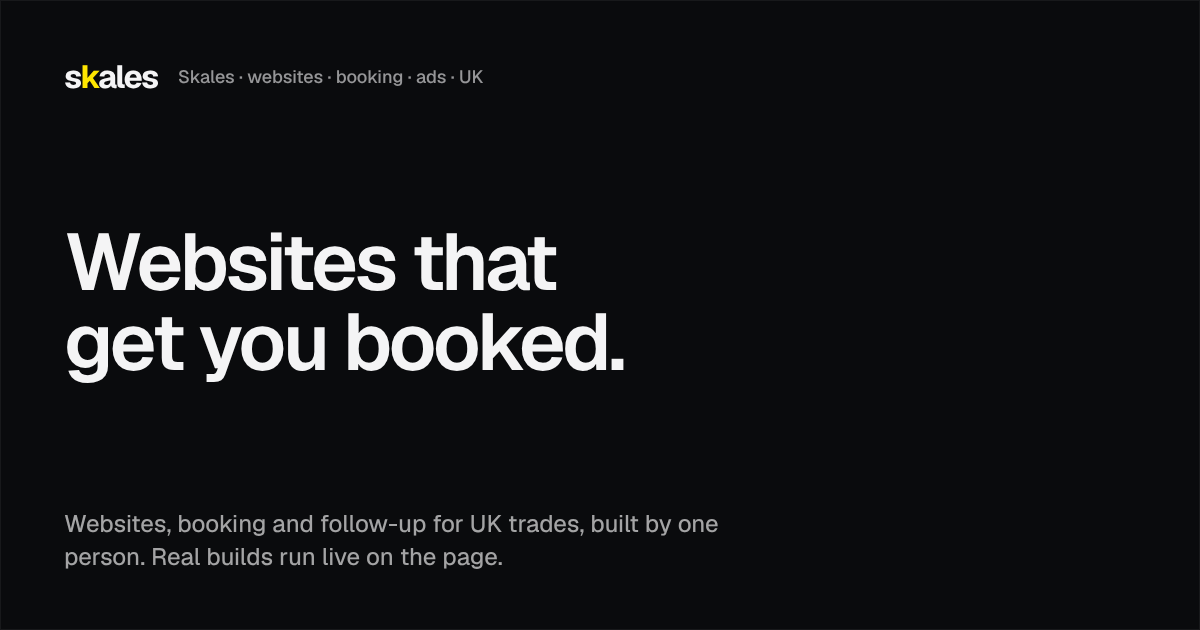
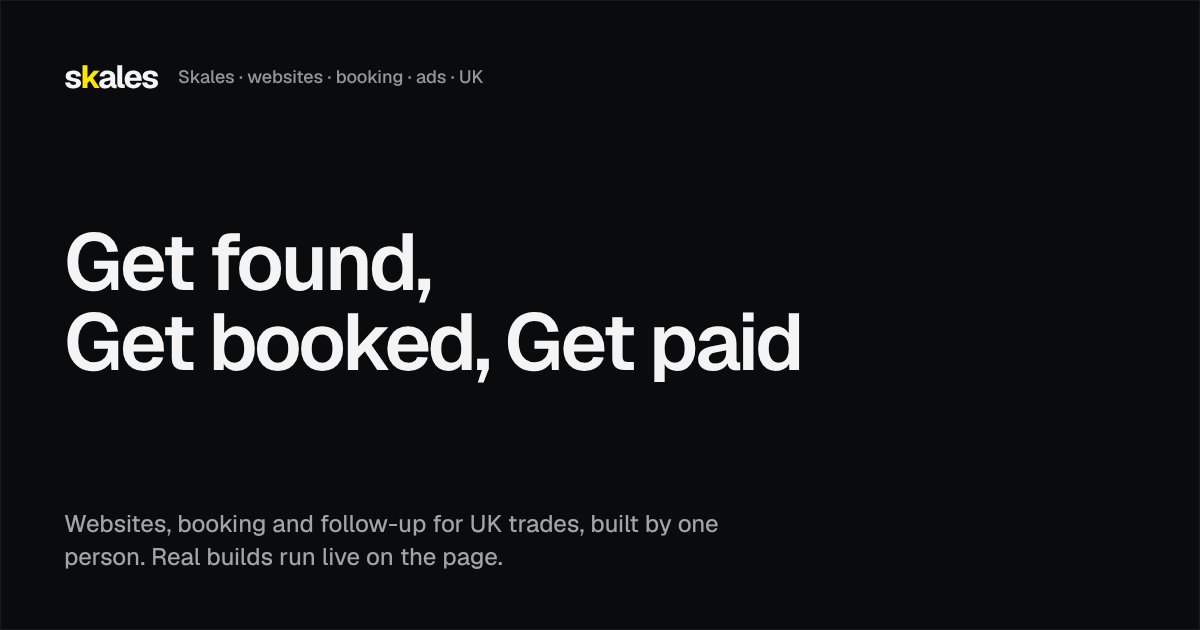
Home headline: Get found, Get booked, Get paid
Tom's words, one phrase a line on the home hero; the home share card says the same.

Claude-Session: https://claude.ai/code/session_013oWbUP7KUN4JVZuAp1amwS

Changed region(s): [[0.0308, 0.3619, 0.6783, 0.6032]]

diff --git a/index.html b/index.html
@@ -31,7 +31,7 @@
 <link rel="preload" href="assets/fonts/geist-latin.woff2" as="font" type="font/woff2" crossorigin>
 <link rel="stylesheet" href="assets/site.css?v=7762e17f">
 <link rel="stylesheet" href="assets/home.css?v=f5cb20c9">
-<script type="application/ld+json">{"@context":"https://schema.org","@graph":[{"@type":"Organization","@id":"https://skales.studio/#organization","name":"Skales Studio","alternateName":"Skales","legalName":"Skales Studio","url":"https://skales.studio/","description":"Websites & systems for service businesses. Builds websites, online booking and follow-up automation for UK service businesses (trades and local operators).","founder":{"@id":"https://skales.studio/#founder"},"foundingDate":"2026","areaServed":{"@type":"Country","name":"United Kingdom"},"knowsAbout":["Web design for service businesses","Online booking systems","CRM for trades","Missed-call text-back automation","Customer follow-up automation","Trades websites","Review request automation","Facebook and Instagram advertising","Google Ads","Local SEO"],"sameAs":["https://www.instagram.com/tomxsystems/"],"contactPoint":{"@type":"ContactPoint","contactType":"sales","email":"thomasrgriffiths08@gmail.com","availableLanguage":"en-GB","areaServed":"GB"},"logo":{"@type":"ImageObject","url":"https://skales.studio/og/icon.png","width":512,"height":512},"image":"https://skales.studio/og/home.png","hasOfferCatalog":{"@type":"OfferCatalog","name":"Skales Studio services","itemListElement":[{"@type":"Offer","itemOffered":{"@type":"Service","@id":"https://skales.studio/services/websites/#service","name":"Websites","url":"https://skales.studio/services/websites/"}},{"@type":"Offer","itemOffered":{"@type":"Service","@id":"https://skales.studio/services/booking-and-crm/#service","name":"Booking and CRM","url":"https://skales.studio/services/booking-and-crm/"}},{"@type":"Offer","itemOffered":{"@type":"Service","@id":"https://skales.studio/services/follow-up-automation/#service","name":"Follow-up automation","url":"https://skales.studio/services/follow-up-automation/"}},{"@type":"Offer","itemOffered":{"@type":"Service","@id":"https://skales.studio/services/meta-ads/#service","name":"Meta ads","url":"https://skales.studio/services/meta-ads/"}},{"@type":"Offer","itemOffered":{"@type":"Service","@id":"https://skales.studio/services/google-ads/#service","name":"Google ads","url":"https://skales.studio/services/google-ads/"}}]}},{"@type":"Person","@id":"https://skales.studio/#founder","name":"Tom Griffiths","alternateName":"Thomas Griffiths","jobTitle":"Founder & builder","worksFor":{"@id":"https://skales.studio/#organization"},"url":"https://skales.studio/why/","sameAs":["https://www.instagram.com/tomxsystems/"],"nationality":"GB","description":"Builds the websites, booking systems and follow-up automation at Skales, by hand, for UK service businesses.","knowsAbout":["Web design","Online booking systems","CRM for service businesses","Missed-call text-back","Follow-up automation","Facebook and Instagram ads","Google Ads","Local SEO"]},{"@type":"WebSite","@id":"https://skales.studio/#website","url":"https://skales.studio/","name":"Skales Studio","alternateName":"Skales","description":"Websites & systems for service businesses","publisher":{"@id":"https://skales.studio/#organization"},"inLanguage":"en-GB"},{"@type":"WebPage","@id":"https://skales.studio/#webpage","url":"https://skales.studio/","name":"Websites & booking systems for UK trades | Skales Studio","description":"Websites, online booking, missed-call text-back and ads for UK trades, built by one person. See twelve real builds and try a live demo on your phone.","isPartOf":{"@id":"https://skales.studio/#website"},"about":{"@id":"https://skales.studio/#organization"},"inLanguage":"en-GB","dateModified":"2026-11-15","primaryImageOfPage":{"@type":"ImageObject","url":"https://skales.studio/og/home.png"}},{"@type":"ItemList","name":"Example websites","itemListElement":[{"@type":"ListItem","position":1,"url":"https://skales.studio/work/kerb-and-camber/","name":"Kerb & Camber"},{"@type":"ListItem","position":2,"url":"https://skales.studio/work/kestrel-electrical/","name":"Kestrel Electrical"},{"@type":"ListItem","position":3,"url":"https://skales.studio/work/fern-physio/","name":"Fern Physio"},{"@type":"ListItem","position":4,"url":"https://skales.studio/work/southpaw/","name":"Southpaw"},{"@type":"ListItem","position":5,"url":"https://skales.studio/work/marrow-and-pin/","name":"Marrow & Pin"},{"@type":"ListItem","position":6,"url":"https://skales.studio/work/long-exposure/","name":"Long Exposure"}]}]}</script>
+<script type="application/ld+json">{"@context":"https://schema.org","@graph":[{"@type":"Organization","@id":"https://skales.studio/#organization","name":"Skales Studio","alternateName":"Skales","legalName":"Skales Studio","url":"https://skales.studio/","description":"Websites & systems for service businesses. Builds websites, online booking and follow-up automation for UK service businesses (trades and local operators).","founder":{"@id":"https://skales.studio/#founder"},"foundingDate":"2026","areaServed":{"@type":"Country","name":"United Kingdom"},"knowsAbout":["Web design for service businesses","Online booking systems","CRM for trades","Missed-call text-back automation","Customer follow-up automation","Trades websites","Review request automation","Facebook and Instagram advertising","Google Ads","Local SEO"],"sameAs":["https://www.instagram.com/tomxsystems/"],"contactPoint":{"@type":"ContactPoint","contactType":"sales","email":"thomasrgriffiths08@gmail.com","availableLanguage":"en-GB","areaServed":"GB"},"logo":{"@type":"ImageObject","url":"https://skales.studio/og/icon.png","width":512,"height":512},"image":"https://skales.studio/og/home.png","hasOfferCatalog":{"@type":"OfferCatalog","name":"Skales Studio services","itemListElement":[{"@type":"Offer","itemOffered":{"@type":"Service","@id":"https://skales.studio/services/websites/#service","name":"Websites","url":"https://skales.studio/services/websites/"}},{"@type":"Offer","itemOffered":{"@type":"Service","@id":"https://skales.studio/services/booking-and-crm/#service","name":"Booking and CRM","url":"https://skales.studio/services/booking-and-crm/"}},{"@type":"Offer","itemOffered":{"@type":"Service","@id":"https://skales.studio/services/follow-up-automation/#service","name":"Follow-up automation","url":"https://skales.studio/services/follow-up-automation/"}},{"@type":"Offer","itemOffered":{"@type":"Service","@id":"https://skales.studio/services/meta-ads/#service","name":"Meta ads","url":"https://skales.studio/services/meta-ads/"}},{"@type":"Offer","itemOffered":{"@type":"Service","@id":"https://skales.studio/services/google-ads/#service","name":"Google ads","url":"https://skales.studio/services/google-ads/"}}]}},{"@type":"Person","@id":"https://skales.studio/#founder","name":"Tom Griffiths","alternateName":"Thomas Griffiths","jobTitle":"Founder & builder","worksFor":{"@id":"https://skales.studio/#organization"},"url":"https://skales.studio/why/","sameAs":["https://www.instagram.com/tomxsystems/"],"nationality":"GB","description":"Builds the websites, booking systems and follow-up automation at Skales, by hand, for UK service businesses.","knowsAbout":["Web design","Online booking systems","CRM for service businesses","Missed-call text-back","Follow-up automation","Facebook and Instagram ads","Google Ads","Local SEO"]},{"@type":"WebSite","@id":"https://skales.studio/#website","url":"https://skales.studio/","name":"Skales Studio","alternateName":"Skales","description":"Websites & systems for service businesses","publisher":{"@id":"https://skales.studio/#organization"},"inLanguage":"en-GB"},{"@type":"WebPage","@id":"https://skales.studio/#webpage","url":"https://skales.studio/","name":"Websites & booking systems for UK trades | Skales Studio","description":"Websites, online booking, missed-call text-back and ads for UK trades, built by one person. See twelve real builds and try a live demo on your phone.","isPartOf":{"@id":"https://skales.studio/#website"},"about":{"@id":"https://skales.studio/#organization"},"inLanguage":"en-GB","dateModified":"2026-11-16","primaryImageOfPage":{"@type":"ImageObject","url":"https://skales.studio/og/home.png"}},{"@type":"ItemList","name":"Example websites","itemListElement":[{"@type":"ListItem","position":1,"url":"https://skales.studio/work/kerb-and-camber/","name":"Kerb & Camber"},{"@type":"ListItem","position":2,"url":"https://skales.studio/work/kestrel-electrical/","name":"Kestrel Electrical"},{"@type":"ListItem","position":3,"url":"https://skales.studio/work/fern-physio/","name":"Fern Physio"},{"@type":"ListItem","position":4,"url":"https://skales.studio/work/southpaw/","name":"Southpaw"},{"@type":"ListItem","position":5,"url":"https://skales.studio/work/marrow-and-pin/","name":"Marrow & Pin"},{"@type":"ListItem","position":6,"url":"https://skales.studio/work/long-exposure/","name":"Long Exposure"}]}]}</script>
 </head>
 <body>
 
@@ -54,7 +54,7 @@
 <section class="hx hx-home" aria-labelledby="h-top">
   <div class="wrap">
     <div class="hx-top">
-      <h1 id="h-top">Websites that <br>get you booked</h1>
+      <h1 id="h-top">Get found, <br>Get booked, <br>Get paid</h1>
       <div class="hx-side">
         <p class="hx-sub"><strong>I build your website, the booking and follow-up behind it, and run the ads that fill it.</strong> One flat price, agreed before anything starts.</p>
         <div class="hx-ctas"><a class="btn btn-live btn-lg" href="book/">Book a call</a><a class="tlink" href="try/missed-call/">Try a live demo</a></div>

diff --git a/tools/pages/home.js b/tools/pages/home.js
@@ -24,7 +24,7 @@ const hero = b => {
   return `<section class="hx hx-home" aria-labelledby="h-top">
   <div class="wrap">
     <div class="hx-top">
-      <h1 id="h-top">Websites that <br>get you booked</h1>
+      <h1 id="h-top">Get found, <br>Get booked, <br>Get paid</h1>
       <div class="hx-side">
         <p class="hx-sub"><strong>I build your website, the booking and follow-up behind it, and run the ads that fill it.</strong> One flat price, agreed before anything starts.</p>
         <div class="hx-ctas"><a class="btn btn-live btn-lg" href="${b}book/">Book a call</a><a class="tlink" href="${b}try/missed-call/">Try a live demo</a></div>
@@ -159,7 +159,7 @@ const book = b => {
 
 module.exports = { pages: [{
   url: '/', og: 'home', priority: 1.0, changefreq: 'weekly',
-  meta: { key: 'home', title: 'Websites that get you booked.', kicker: `${site.name} · websites · booking · ads · UK`, sub: 'Websites, booking and follow-up for UK trades, built by one person. Real builds run live on the page.' },
+  meta: { key: 'home', title: 'Get\u00a0found, Get\u00a0booked, Get\u00a0paid', kicker: `${site.name} · websites · booking · ads · UK`, sub: 'Websites, booking and follow-up for UK trades, built by one person. Real builds run live on the page.' },
   render(b){
     const title = `Websites & booking systems for UK trades | ${site.legalName}`;
     const description = 'Websites, online booking, missed-call text-back and ads for UK trades, built by one person. See twelve real builds and try a live demo on your phone.';
